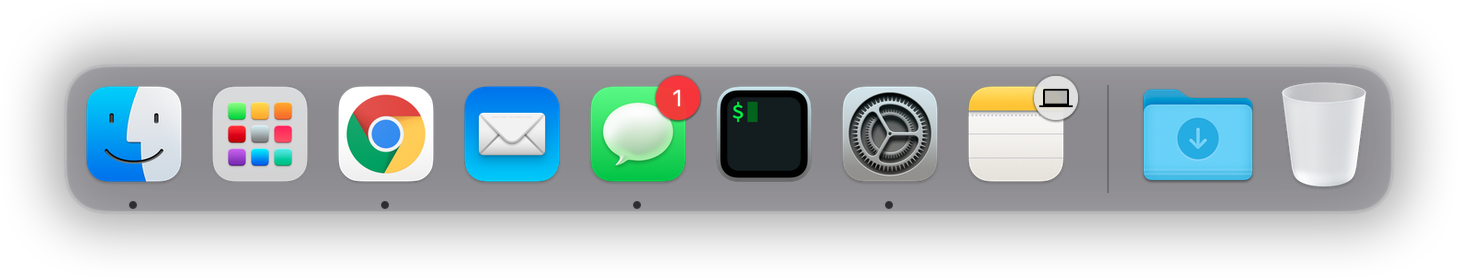
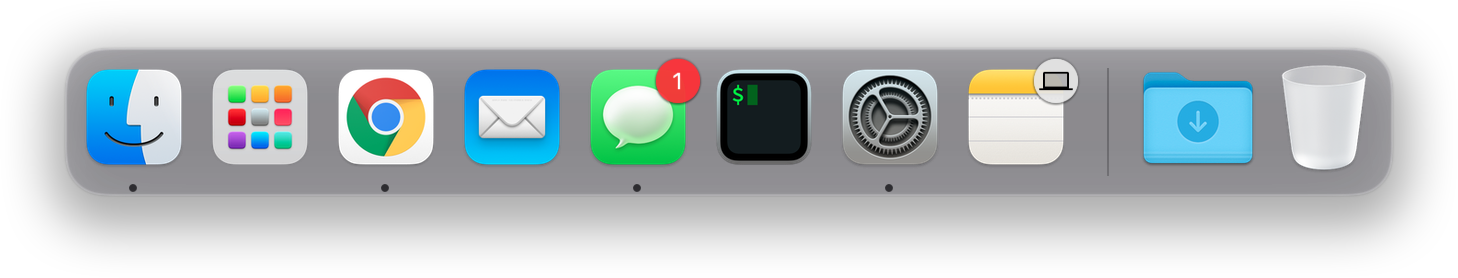
Update README.md

Changed region(s): [[0.0309, 0.1727, 0.9568, 0.777], [0.679, 0.4892, 0.7099, 0.518]]

diff --git a/README.md b/README.md
@@ -165,7 +165,7 @@ Working natively. Change default startup disk from the macOS settings.
   - DVMT Pre-Allocated: 64M
   - DVMT Total Gfx Mem: MAX
 
-<p align="center"><img src="./Images/dock.png" alt="Dock" width="666" /></p>
+<p align="center"><img src="./Images/dock.png" alt="Dock" width="729" /></p>
 
 ## Acknowledgments
 
